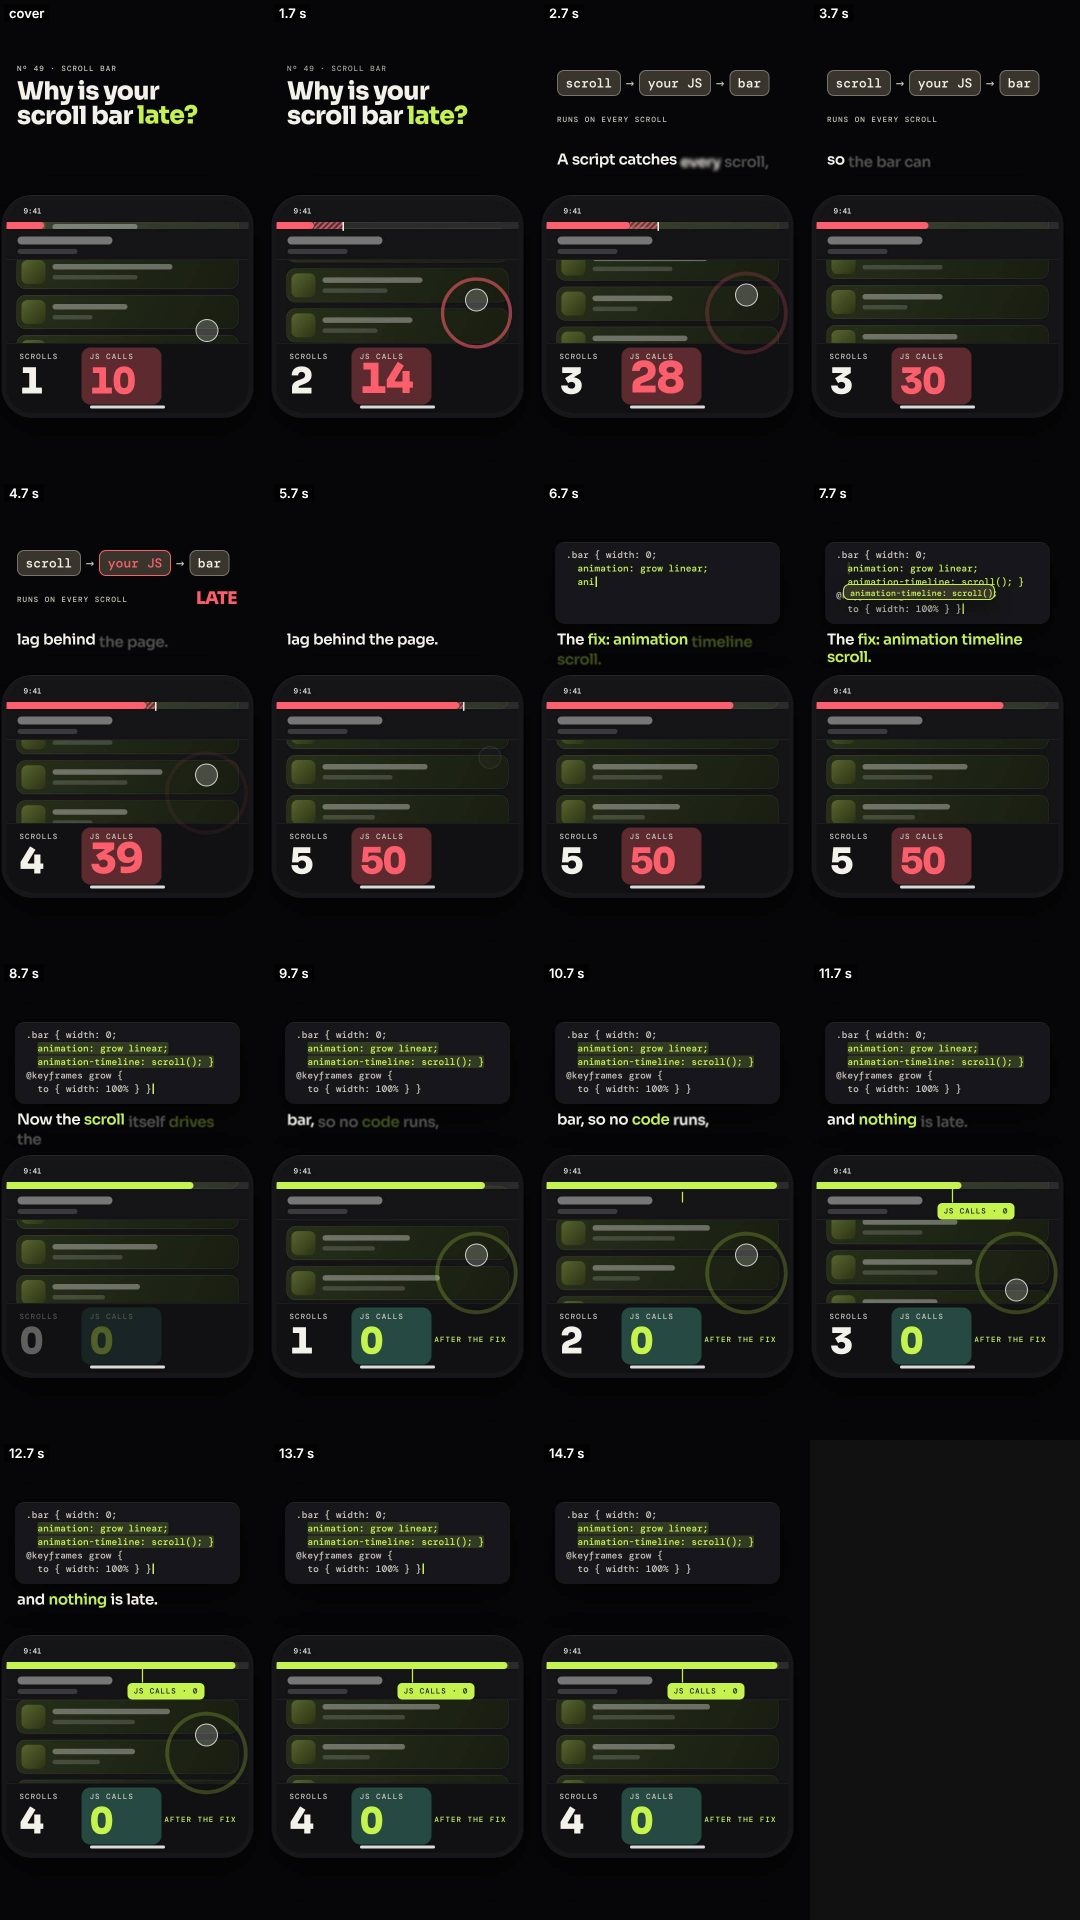
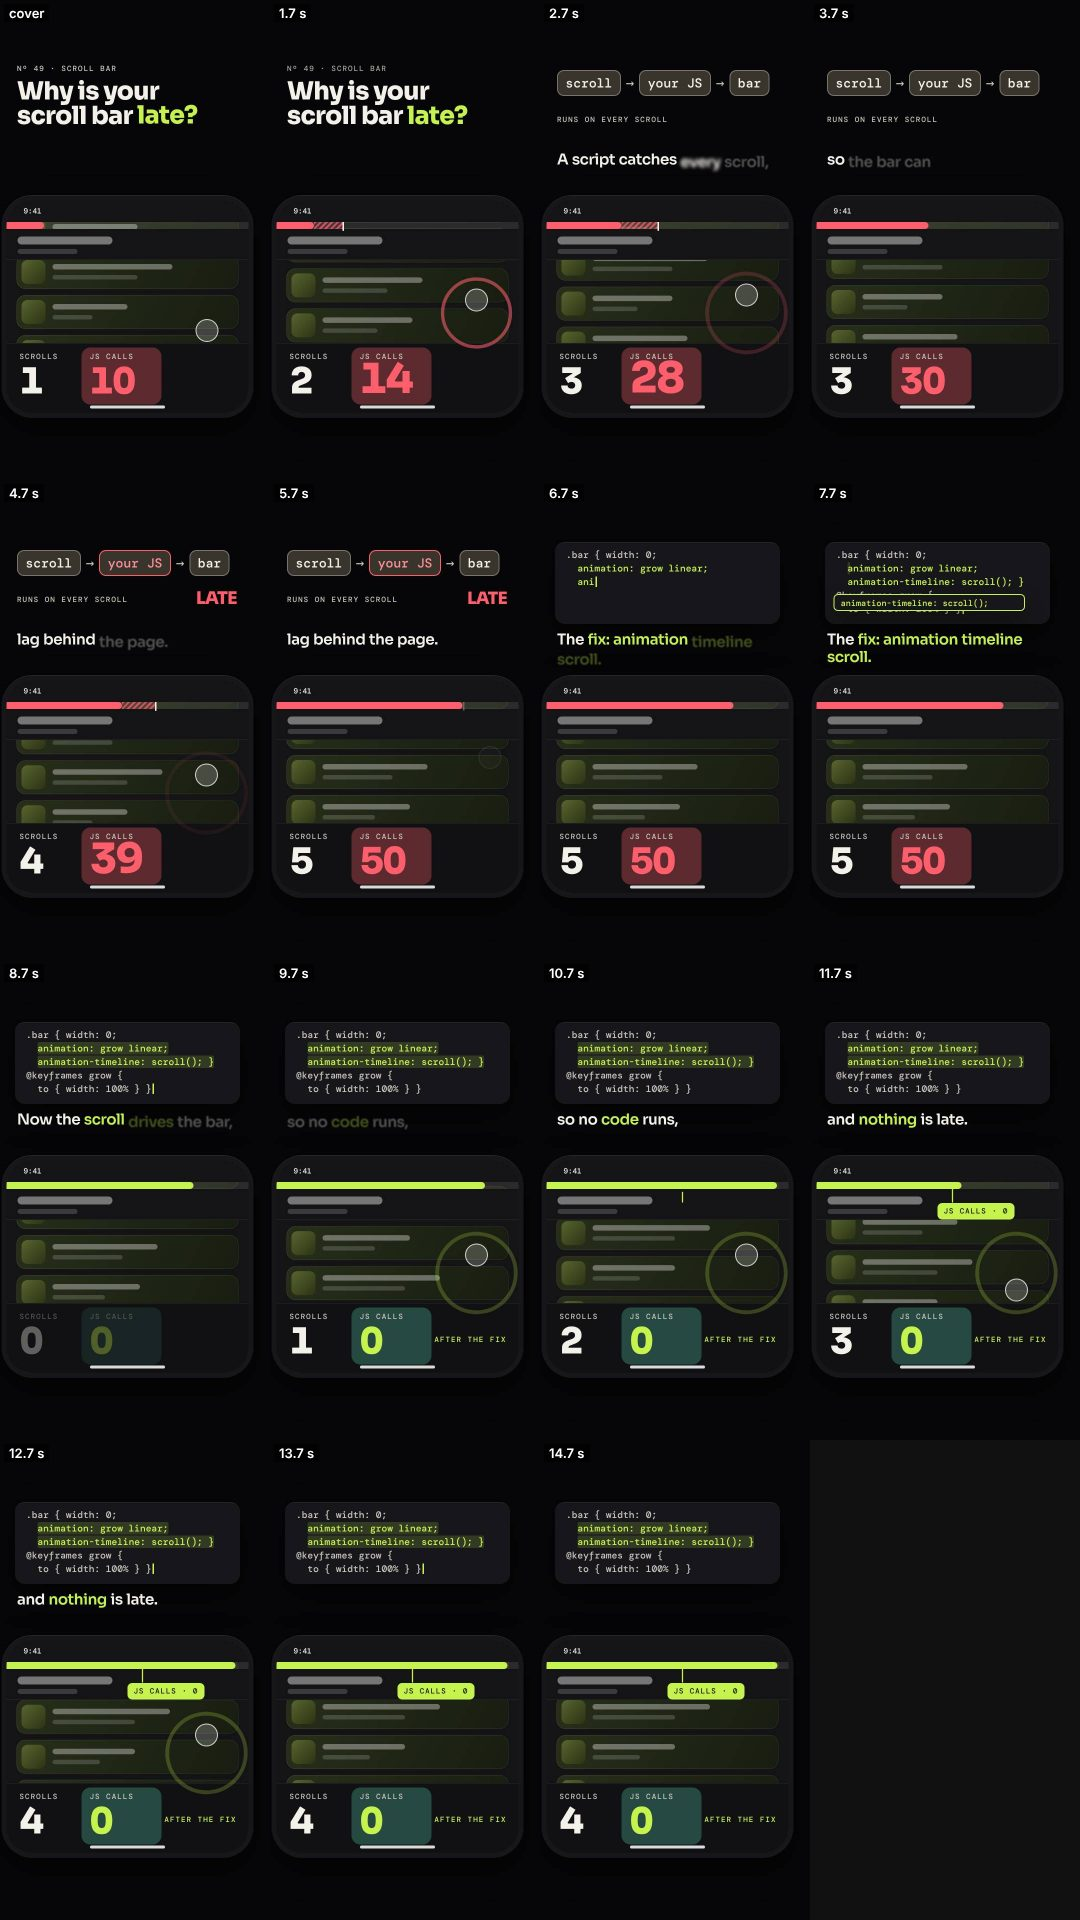
Web 27 Nov: scrollbar stills fix round (cause picture holds, solid glide pill, wider lag gap, shorter subtitle)
Claude-Session: https://claude.ai/code/session_01AYvWRkg5MF5DGMV1gNzaWK

diff --git a/scripts/explainer/scrollbar.html b/scripts/explainer/scrollbar.html
@@ -41,7 +41,7 @@ html,body{width:540px;height:960px;overflow:hidden;background:var(--ink);color:v
 #fg{position:absolute;width:46px;height:46px;border-radius:50%;background:rgba(255,255,255,.2);border:2px solid rgba(255,255,255,.75);z-index:6;opacity:0}
 .tr{position:absolute;width:64px;height:64px;border-radius:50%;border:3px solid var(--red);z-index:6;opacity:0}
 .rp{position:absolute;width:64px;height:64px;border-radius:50%;border:3px solid var(--acc);z-index:6;opacity:0}
-#ghost{left:0;top:0;padding:8px 12px;border-radius:12px;background:var(--raise);border:2px solid var(--acc);font:500 17px/1 var(--m);color:var(--acc);white-space:nowrap;opacity:0;z-index:5}
+#ghost{left:0;top:0;padding:8px 12px;border-radius:12px;background:#17171b;border:2px solid var(--acc);font:500 17px/1 var(--m);color:var(--acc);white-space:nowrap;opacity:0;z-index:5}
 /* screen space: the label row, the hook, the width picture, the code card, the payoff label, the subtitles, the measurement */
 #lbl{left:34px;top:130px;font:500 15px/1 var(--m);letter-spacing:.14em;color:var(--dim);white-space:nowrap}
 #hook{left:34px;top:158px;font-weight:var(--hw);font-size:50px;line-height:.98;letter-spacing:var(--ht)}
@@ -644,12 +644,12 @@ var KM = (function(){
 /*kithook:end*/
   var $ = function(id){ return document.getElementById(id); }, P = KM.P, mix = KM.mix, E = KM.ease, cl = KM.cl, TH = KM.black({ acc: '#c6f24e' });   // the black look (rules-web.md rule 19) with a lime accent: one accent a reel, a new one each time (rule 17, Output QA HUE)
   [['--soft', 'rgba(198,242,78,.16)'], ['--ring', 'rgba(198,242,78,.55)'], ['--on', '#0f1704']].forEach(function(q){ document.documentElement.style.setProperty(q[0], q[1]); });
-  var TEXT = "Why is your scroll bar late? A script catches every scroll, so the bar can lag behind the page. The fix: animation timeline scroll. Now the scroll itself drives the bar, so no code runs, and nothing is late.", DUR = 15, HOOK_N = 6, FIX_S = 2;
+  var TEXT = "Why is your scroll bar late? A script catches every scroll, so the bar can lag behind the page. The fix: animation timeline scroll. Now the scroll drives the bar, so no code runs, and nothing is late.", DUR = 15, HOOK_N = 6, FIX_S = 2;
   // the code: the scroll-driven bar (the two lit lines are the fix; the dim lines are the bar itself)
   var CODE = '<span class="dim">.bar { width: 0;</span>\n  <b>animation: grow linear;</b>\n  <b>animation-timeline: scroll(); }</b>\n<span class="dim">@keyframes grow {</span>\n<span class="dim">  to { width: 100% } }</span>';
   var V, PH, A = {}, CAM, T = {}, TB = [], TG = [], FLK = [], CALLS = [];
   // the feed: a long list of cards; every flick scrolls it; the bar shows how far (BEFORE a script moves it late, in steps; AFTER the scroll itself drives it)
-  var MAXS = 1100, W = 484, AMPB = 170, AMPG = [100, 100, -400, 400], LAGSTEP = .3, LAGBY = .1;
+  var MAXS = 1100, W = 484, AMPB = 170, AMPG = [100, 100, -400, 400], LAGSTEP = .4, LAGBY = .2;
   var BOX = { x: 30, y: 150, w: 450, h: 110, r: 20 }, CARD = { x: 30, y: 124, w: 450, h: 164, r: 20 };
   var fb = $('fb'), lb = $('lb'), tkb = $('tkb'), fa = $('fa'), sc1 = $('sc1'), sc2 = $('sc2');
   (function(){ var h = '', i, w1 = [210, 170, 240, 150, 200, 180, 230, 160, 190, 220, 150, 210, 175, 235, 165, 205, 185];
@@ -734,7 +734,7 @@ var KM = (function(){
     KM.rise($('hook').querySelectorAll('.ln > span'), t, st, gone);
     $('lbl').style.opacity = (1 - P(t, A.leave - .2, A.leave)).toFixed(3);
     // ---- why: scroll -> your JS -> bar; the middle chip turns red when the voice says the bar can lag ----
-    var wi = E.out3(P(t, A.wideIn, A.wideIn + .35)) * (1 - P(t, A.fix - .4, A.fix - .15)), hot = E.inOut3(P(t, A.hot - .05, A.hot + .3)), wp = P(t, A.late, A.late + .25);
+    var wi = E.out3(P(t, A.wideIn, A.wideIn + .35)) * (1 - P(t, A.fix + .15, A.fix + .4)), hot = E.inOut3(P(t, A.hot - .05, A.hot + .3)), wp = P(t, A.late, A.late + .25);
     $('wide').style.opacity = wi.toFixed(3); $('wide').style.transform = 'translateY(' + ((1 - E.out3(P(t, A.wideIn, A.wideIn + .35))) * 12).toFixed(2) + 'px)';
     ['c1', 'c2', 'c3'].forEach(function(id, k){ var e = E.back(P(t, A.wideIn + k * .12, A.wideIn + .35 + k * .12), 1.6); $(id).style.transform = 'scale(' + mix(.7, 1, e).toFixed(3) + ')'; });
     var c2 = $('c2'); c2.style.color = hot > .5 ? '#ff8f9a' : 'var(--paper)'; c2.style.borderColor = 'rgba(255,' + Math.round(mix(255, 95, hot)) + ',' + Math.round(mix(255, 109, hot)) + ',' + mix(.32, 1, hot).toFixed(2) + ')';
@@ -745,7 +745,7 @@ var KM = (function(){
     KM.type($('cd'), CODE, t, A.typeStart, A.typeEnd); $('cd').style.opacity = P(mk, .6, 1).toFixed(3);
     [].forEach.call($('cd').querySelectorAll('b'), function(b, k){ KM.sweep(b, t, A.typeEnd + .05 + k * .12, .4, 'var(--soft)'); });
     // the fix line glides from the code card to the bar (a copy: the card keeps it on screen for the save)
-    var g = T.glide(t), gh = $('ghost'), a = { x: 62, y: 164, w: 300, h: 32, r: 12 }, sc = CAM.toScreen(c, 270, 480), b = { x: sc[0] - 165, y: sc[1] - 16, w: 330, h: 32, r: 14 };
+    var g = T.glide(t), gh = $('ghost'), a = { x: 40, y: 188, w: 392, h: 34, r: 8 }, sc = CAM.toScreen(c, 270, 480), b = { x: sc[0] - 165, y: sc[1] - 16, w: 330, h: 32, r: 14 };
     KM.shared(gh, a, b, g); gh.style.opacity = (t >= A.typeEnd + .1 && g < 1 ? 1 - P(g, .8, 1) : 0).toFixed(3);
     // ---- payoff: a leader line from the bar to its label, in the header's empty right half ----
     var lp = CAM.toScreen(c, 270, 486), lk = P(t, A.lab, A.lab + .7);

diff --git a/review/web/showreel-49-scrollbar.direction.md b/review/web/showreel-49-scrollbar.direction.md
@@ -12,4 +12,6 @@ Fill before the build (design/direction.md: the card, and this channel's default
 8. Rewatch moment: about 11.5-12.5 s, the long flick back up: the lime bar shrinks with the page in one smooth move while JS CALLS stays 0; the viewer scrubs back to see the red bar never manage that | Why: it is the surprise that proves the bar is tied to the scroll itself, in both directions.
 9. Payoff: the last 2 s keep SCROLLS counting, JS CALLS 0 in lime, the label "JS CALLS · 0" with a leader to the bar and the code card with animation-timeline: scroll(); on screen for the save | Why: the viewer keeps one copyable line and one number (0 calls).
 
+Stills check round 1 (Fable, session_01AYvWRgnRjMz2sFWFQTauDU, 2026-11-27): REDO (blank top third at 5.7 s before the code card; the gliding pill doubled code lines at 7.7 s; the hatched gap shrank at 4.7-5.7 s; "the" alone on a subtitle line at 8.7 s). Fixed in one round: the cause picture stays until the code card morphs out of it on "The fix"; the glide pill starts exactly on its source line with a solid fill; the bar's lag step 0.3 -> 0.4 s and delay 0.1 -> 0.2 s so the gap stays wide; "itself" dropped from the voice text so the phrase fits one line.
+
 STILLS CHECK: PENDING
